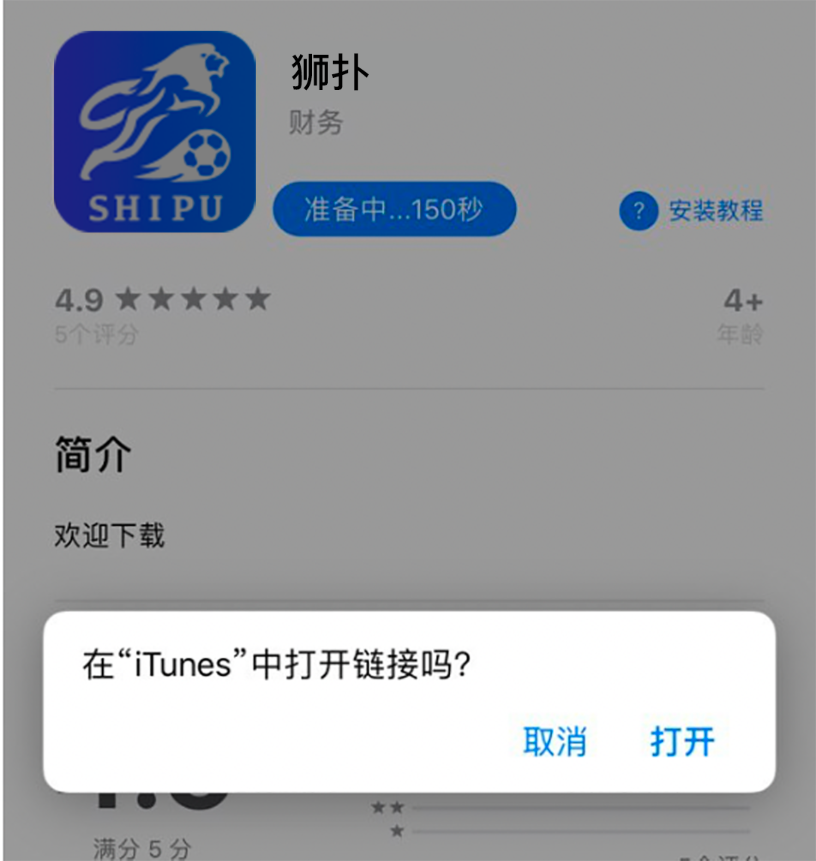
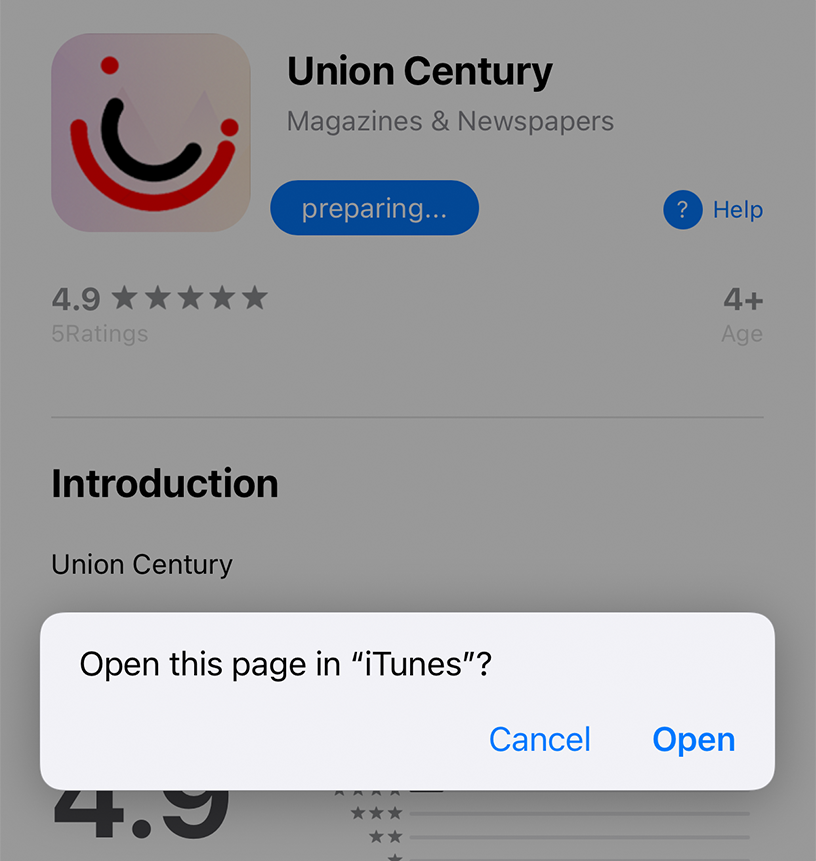
to english

diff --git a/allDownload.html b/allDownload.html
@@ -4,7 +4,7 @@
   <meta charset="UTF-8">
   <meta name="viewport" content="initial-scale=1, maximum-scale=1, user-scalable=no, width=device-width">
   <script src="./assets/rem.js"></script>
-  <title>狮扑下载</title>
+  <title>Union Century Download</title>
   <link href="./assets/swiper.min.css" rel="stylesheet" />
   <link href="./assets/index.css" rel="stylesheet" />
    <script type="text/javascript" src="//www.shareinstall.com.cn/js/page/jshareinstall.min.js"></script>
@@ -21,20 +21,10 @@
    var data = ShareInstall.parseUrlParams(); // shareinstall.js中提供的工具函数，解析url中的所有查询参数
    new ShareInstall({
         appKey: 'A2B2H7B2AERH62',
-        // 可选项，微信中自定义的遮罩层
-        // shadow : function(){
-        //     return "<div id='shareinstall_shadow' style='position:fixed;left:0;top:0;background:rgba(0,255,0,0.5);filter:alpha(opacity=50);width:100%;height:100%;z-index:10000;'></div>"
-        // },
-        // 可选参数，是否优先考虑拉起app，以牺牲下载体验为代价 默认true
-        // preferWakeup: true,
-        // 可选参数，唤醒操作的执行时长，超时后将放弃唤醒并执行下载，默认1500，单位是毫秒
-        // timeout: 1500,
         onready : function() {
-            // shareinstall已成功回调
+            // shareinstall successful
             var m = this, button = document.getElementById("downloadButton");
             button.style.visibility = "visible";
-
-            // 用户点击某个按钮时(假定按钮id为downloadButton)，安装app
             button.onclick = function() {
                m.wakeupOrInstall();
             }
@@ -47,43 +37,43 @@
     <section class="swiper-container">
       <ul class="swiper-wrapper">
 
-          <li class="swiper-slide"><img src="./images/banner03.png" style="width:100%;"></li>
-        <li class="swiper-slide"><img src="./images/banner04.png" style="width:100%;"></li>
+          <li class="swiper-slide"><img src="./images/banner01.png" style="width:100%;"></li>
+        <li class="swiper-slide"><img src="./images/banner02.png" style="width:100%;"></li>
       </ul>
     </section>
     <section style="width:10.6rem; margin: 0.6rem auto 0;">
-      <button id="downloadButton" class="download" style="visibility: visible;">立即下载</button>
+      <button id="downloadButton" class="download" style="visibility: visible;">Download</button>
     </section>
     <section class="botmCont">
-      <a href="http://www.shipu18.com/" target="_blank">访问网页版</a>
-      <p>下滑查看ios安装教程</p>
+      <a href="http://www.shipu18.com/" target="_blank">go to website</a>
+      <p>Scroll down to view the ios installation tutorial</p>
     <ul class="botmList">
       <li>
-        <p><span>第一步：</span>弹出新页面，点击免费安装，并允许下载配置文件</p>
+        <p><span>1：</span>A new page pops up, click the get button, and allow the download of configuration files</p>
         <img src="./images/img_1.png">
       </li>
       <li>
-        <p><span>第二步：</span> 配置文件下载后，点击关闭，并允许</p>
+        <p><span>2：</span> After the configuration file is downloaded, click Close and allow</p>
         <img src="./images/img_2.png">
       </li>
       <li>
-        <p><span>第三步：</span>自动进入描述文件与设备管理，选择狮扑</p>
+        <p><span>3：</span>Automatically enter the description file and device management, select union century</p>
         <img src="./images/img_3.png">
       </li>
       <li>
-        <p><span>第四步：</span>进入安装描述文件，点击安装按钮，并选择下方安装按钮。</p>
+        <p><span>4：</span>Enter the installation description file, click the install button, and select the install button below.</p>
         <img src="./images/img_4.png">
       </li>
       <li>
-        <p><span>第五步：</span>将进入浏览器并提示在“iTunes”中打开链接吗？选择打开，并等待弹窗。（有时候，这一步需要几十秒，请耐心等待）</p>
+        <p><span>5：</span>Will enter the browser and prompt to open the link in "iTunes"? Select Open and wait for the pop-up window. (Sometimes, this step takes tens of seconds, please be patient)</p>
         <img src="./images/img_5.png">
       </li>
       <li>
-        <p><span>第六步：</span>出现安装弹窗，点击安装。开始安装应用</p>
+        <p><span>6：</span>The installation pop-up window appears, click Install. Start to install the app</p>
         <img src="./images/img_6.png">
       </li>
       <li>
-        <p><span>第七步：</span>进显示下载中，可以直接回到桌面查看下载进度，等待下载完成，您就可以畅玩狮扑了</p>
+        <p><span>7：</span>In the display downloading, you can directly go back to the desktop to view the download progress and wait for the download to complete,then enjoy</p>
         <img src="./images/img_7.png">
       </li>
     </ul>
@@ -96,20 +86,20 @@
     direction: 'horizontal',
     loop: true,
     autoplay: 5000,
-    // 如果需要分页器
+    // pagination
     pagination: '.swiper-pagination'
 
   })
 function downBtn() {
   let u = navigator.userAgent;
   let isAndroid = u.indexOf('Android') > -1 || u.indexOf('Linux') > -1; //g
-  let isIOS = !!u.match(/\(i[^;]+;( U;)? CPU.+Mac OS X/); //ios终端
+  let isIOS = !!u.match(/\(i[^;]+;( U;)? CPU.+Mac OS X/); //ios
   if (isAndroid) {
     window.location.href = 'https://id1688-asia-cdn.daxingj.com/android/test/shipu_allgames_test_1.0.51.apk'
   }
   if (isIOS) {
-  　　//这个是ios操作系统
-    window.location.href = 'https://shipu.ios04.com'
+  　　//this ios
+    window.location.href = 'https://ucentury.ios03.com'
   }
 }
   </script>

diff --git a/assets/index.css b/assets/index.css
@@ -14,7 +14,6 @@ body{
   text-align: center;
 }
 .swiper-container{
-  padding-top: 2rem;
   text-align: center;
   width: 100%;
 }
